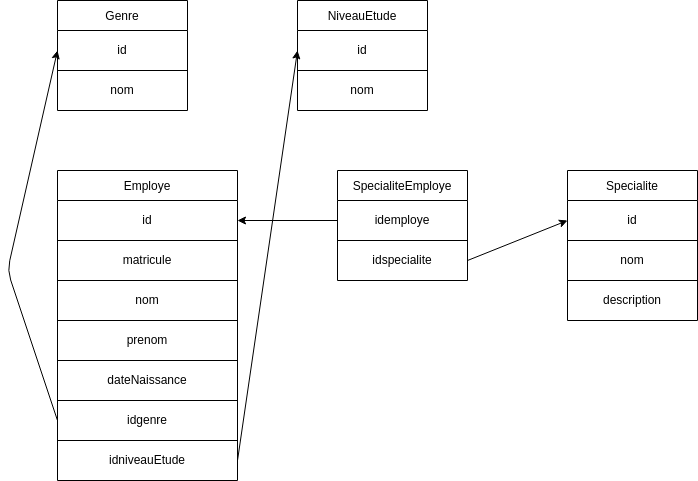
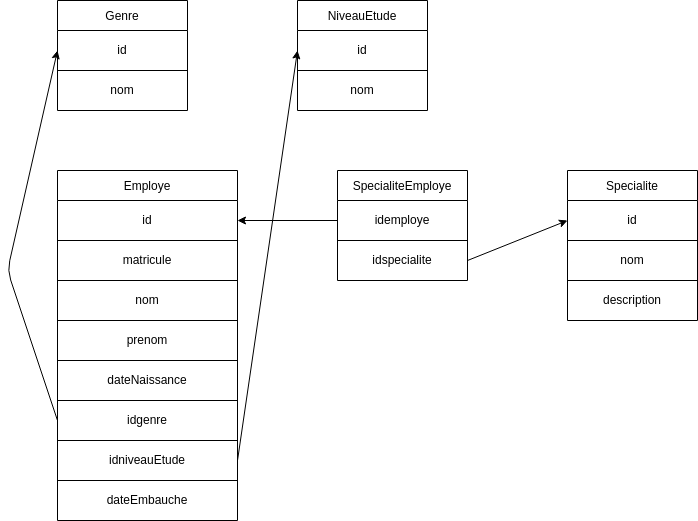
update conception

diff --git a/conception/html/database_todo.html b/conception/html/database_todo.html
@@ -5,10 +5,10 @@
 	<title></title>
 	<meta name="generator" content="LibreOffice 7.3.7.2 (Linux)"/>
 	<meta name="created" content="2023-01-11T20:01:45.771087591"/>
-	<meta name="changed" content="2023-01-11T20:21:54.404485195"/>
+	<meta name="changed" content="2023-01-11T22:08:44.417046390"/>
 	<style type="text/css">
 		@page { size: 8.5in 11in; margin: 0.79in }
-		p { line-height: 115%; margin-bottom: 0.1in; background: transparent }
+		p { line-height: 115%; margin-bottom: 0.1in; background: transparent; background: transparent }
 		a:link { color: #000080; so-language: zxx; text-decoration: underline }
 		a:visited { color: #800000; so-language: zxx; text-decoration: underline }
 	</style>
@@ -28,15 +28,14 @@ Tables</span></b></font></font></font></p>
 Genre</span></font></font></font></p>
 <ul>
 	<li><p style="font-weight: normal; line-height: 0.2in; margin-bottom: 0in">
-	<font color="#000000"><span style="background: transparent"> <font face="Droid Sans Mono, monospace, monospace"><font size="2" style="font-size: 10pt">id:
+	<font color="#000000"><font face="Droid Sans Mono, monospace, monospace"><font size="2" style="font-size: 10pt"><span style="background: transparent">id:
 	pk </span></font></font></font>
 	</p>
 	<li><p style="font-weight: normal; line-height: 0.2in; margin-bottom: 0in">
-	<font color="#000000"><span style="background: transparent"> <font face="Droid Sans Mono, monospace, monospace"><font size="2" style="font-size: 10pt">nom:
+	<font color="#000000"><font face="Droid Sans Mono, monospace, monospace"><font size="2" style="font-size: 10pt"><span style="background: transparent">nom:
 	unique (not null)</span></font></font></font></p>
 </ul>
-<p style="font-weight: normal; line-height: 0.2in; margin-bottom: 0in">
-<br/>
+<p style="line-height: 0.2in; margin-bottom: 0in"><br/>
 
 </p>
 <p style="font-weight: normal; line-height: 0.2in; margin-bottom: 0in">
@@ -44,14 +43,13 @@ Genre</span></font></font></font></p>
 NiveauEtude</span></font></font></font></p>
 <ul>
 	<li><p style="font-weight: normal; line-height: 0.2in; margin-bottom: 0in">
-	<font color="#000000"><span style="background: transparent"> <font face="Droid Sans Mono, monospace, monospace"><font size="2" style="font-size: 10pt">id:
+	<font color="#000000"><font face="Droid Sans Mono, monospace, monospace"><font size="2" style="font-size: 10pt"><span style="background: transparent">id:
 	pk</span></font></font></font></p>
 	<li><p style="font-weight: normal; line-height: 0.2in; margin-bottom: 0in">
-	<font color="#000000"><span style="background: transparent"> <font face="Droid Sans Mono, monospace, monospace"><font size="2" style="font-size: 10pt">nom:
+	<font color="#000000"><font face="Droid Sans Mono, monospace, monospace"><font size="2" style="font-size: 10pt"><span style="background: transparent">nom:
 	unique (not null)</span></font></font></font></p>
 </ul>
-<p style="font-weight: normal; line-height: 0.2in; margin-bottom: 0in">
-<br/>
+<p style="line-height: 0.2in; margin-bottom: 0in"><br/>
 
 </p>
 <p style="font-weight: normal; line-height: 0.2in; margin-bottom: 0in">
@@ -59,31 +57,30 @@ NiveauEtude</span></font></font></font></p>
 Employe</span></font></font></font></p>
 <ul>
 	<li><p style="font-weight: normal; line-height: 0.2in; margin-bottom: 0in">
-	<font color="#000000"><span style="background: transparent"> <font face="Droid Sans Mono, monospace, monospace"><font size="2" style="font-size: 10pt">id:
+	<font color="#000000"><font face="Droid Sans Mono, monospace, monospace"><font size="2" style="font-size: 10pt"><span style="background: transparent">id:
 	pk</span></font></font></font></p>
 	<li><p style="font-weight: normal; line-height: 0.2in; margin-bottom: 0in">
-	<font color="#000000"><span style="background: transparent">
-	<font face="Droid Sans Mono, monospace, monospace"><font size="2" style="font-size: 10pt">matricule:
+	<font color="#000000"><font face="Droid Sans Mono, monospace, monospace"><font size="2" style="font-size: 10pt"><span style="background: transparent">matricule:
 	unique (not null) ; default(‘#emp’||nextval(‘seq_matricule’))</span></font></font></font></p>
 	<li><p style="font-weight: normal; line-height: 0.2in; margin-bottom: 0in">
-	<font color="#000000"><span style="background: transparent"> <font face="Droid Sans Mono, monospace, monospace"><font size="2" style="font-size: 10pt">nom</span></font></font></font></p>
+	<font color="#000000"><font face="Droid Sans Mono, monospace, monospace"><font size="2" style="font-size: 10pt"><span style="background: transparent">nom</span></font></font></font></p>
 	<li><p style="font-weight: normal; line-height: 0.2in; margin-bottom: 0in">
-	<font color="#000000"><span style="background: transparent"> <font face="Droid Sans Mono, monospace, monospace"><font size="2" style="font-size: 10pt">prenom</span></font></font></font></p>
+	<font color="#000000"><font face="Droid Sans Mono, monospace, monospace"><font size="2" style="font-size: 10pt"><span style="background: transparent">prenom</span></font></font></font></p>
 	<li><p style="font-weight: normal; line-height: 0.2in; margin-bottom: 0in">
-	<font color="#000000"><span style="background: transparent">
-	<font face="Droid Sans Mono, monospace, monospace"><font size="2" style="font-size: 10pt">dateNaissance:
-	contrainte-&gt;CHECK (dateNaissance &lt; CURRENT_DATE - INTERVAL '18
-	years') (not null)</span></font></font></font></p>
+	<font color="#000000"><font face="Droid Sans Mono, monospace, monospace"><font size="2" style="font-size: 10pt"><span style="background: transparent">dateNaissance:
+	 CHECK (dateNaissance &lt; CURRENT_DATE - INTERVAL '18 years') (not
+	null)</span></font></font></font></p>
 	<li><p style="font-weight: normal; line-height: 0.2in; margin-bottom: 0in">
-	<font color="#000000"><span style="background: transparent">
-	<font face="Droid Sans Mono, monospace, monospace"><font size="2" style="font-size: 10pt">idgenre:
+	<font color="#000000"><font face="Droid Sans Mono, monospace, monospace"><font size="2" style="font-size: 10pt"><span style="background: transparent">idgenre:
 	fk(Genre.id)</span></font></font></font></p>
 	<li><p style="font-weight: normal; line-height: 0.2in; margin-bottom: 0in">
 	<font color="#000000"><font face="Droid Sans Mono, monospace, monospace"><font size="2" style="font-size: 10pt"><span style="background: transparent">idniveauEtude:
 	fk(NiveauEtude.id)</span></font></font></font></p>
+	<li><p style="font-weight: normal; line-height: 0.2in; margin-bottom: 0in">
+	<font color="#000000"><font face="Droid Sans Mono, monospace, monospace"><font size="2" style="font-size: 10pt"><span style="background: transparent">dateEmbauche:
+	(not null) ; default CURRENT_DATE</span></font></font></font></p>
 </ul>
-<p style="font-weight: normal; line-height: 0.2in; margin-bottom: 0in">
-<br/>
+<p style="line-height: 0.2in; margin-bottom: 0in"><br/>
 
 </p>
 <p style="font-weight: normal; line-height: 0.2in; margin-bottom: 0in">
@@ -91,17 +88,15 @@ Employe</span></font></font></font></p>
 Specialite</span></font></font></font></p>
 <ul>
 	<li><p style="font-weight: normal; line-height: 0.2in; margin-bottom: 0in">
-	<font color="#000000"><span style="background: transparent"> <font face="Droid Sans Mono, monospace, monospace"><font size="2" style="font-size: 10pt">id:
+	<font color="#000000"><font face="Droid Sans Mono, monospace, monospace"><font size="2" style="font-size: 10pt"><span style="background: transparent">id:
 	pk</span></font></font></font></p>
 	<li><p style="font-weight: normal; line-height: 0.2in; margin-bottom: 0in">
-	<font color="#000000"><span style="background: transparent"> <font face="Droid Sans Mono, monospace, monospace"><font size="2" style="font-size: 10pt">nom:
+	<font color="#000000"><font face="Droid Sans Mono, monospace, monospace"><font size="2" style="font-size: 10pt"><span style="background: transparent">nom:
 	unique (not null)</span></font></font></font></p>
 	<li><p style="font-weight: normal; line-height: 0.2in; margin-bottom: 0in">
-	<font color="#000000"><span style="background: transparent">
-	<font face="Droid Sans Mono, monospace, monospace"><font size="2" style="font-size: 10pt">description</span></font></font></font></p>
+	<font color="#000000"><font face="Droid Sans Mono, monospace, monospace"><font size="2" style="font-size: 10pt"><span style="background: transparent">description</span></font></font></font></p>
 </ul>
-<p style="font-weight: normal; line-height: 0.2in; margin-bottom: 0in">
-<br/>
+<p style="line-height: 0.2in; margin-bottom: 0in"><br/>
 
 </p>
 <p style="font-weight: normal; line-height: 0.2in; margin-bottom: 0in">
@@ -109,12 +104,10 @@ Specialite</span></font></font></font></p>
 SpecialiteEmploye</span></font></font></font></p>
 <ul>
 	<li><p style="font-weight: normal; line-height: 0.2in; margin-bottom: 0in">
-	<font color="#000000"><span style="background: transparent">
-	<font face="Droid Sans Mono, monospace, monospace"><font size="2" style="font-size: 10pt">idemploye:
+	<font color="#000000"><font face="Droid Sans Mono, monospace, monospace"><font size="2" style="font-size: 10pt"><span style="background: transparent">idemploye:
 	fk(Employe.id)</span></font></font></font></p>
 	<li><p style="font-weight: normal; line-height: 0.2in; margin-bottom: 0in">
-	<font color="#000000"><span style="background: transparent">
-	<font face="Droid Sans Mono, monospace, monospace"><font size="2" style="font-size: 10pt">idspecialite:
+	<font color="#000000"><font face="Droid Sans Mono, monospace, monospace"><font size="2" style="font-size: 10pt"><span style="background: transparent">idspecialite:
 	fk(Specialite.id)</span></font></font></font></p>
 </ul>
 <p style="line-height: 0.2in; margin-bottom: 0in"><br/>
@@ -125,8 +118,7 @@ View</span></b></font></font></font></p>
 <p style="font-weight: normal; line-height: 0.2in; margin-bottom: 0in">
 <font color="#000000"><font face="Droid Sans Mono, monospace, monospace"><font size="2" style="font-size: 10pt"><span style="background: transparent">-
 Specialite + SpecialiteEmploye on idemploye: v_specialite_employe</span></font></font></font></p>
-<p style="font-weight: normal; line-height: 0.2in; margin-bottom: 0in">
-<br/>
+<p style="line-height: 0.2in; margin-bottom: 0in"><br/>
 
 </p>
 <p style="line-height: 0.2in; margin-bottom: 0in"><br/>
